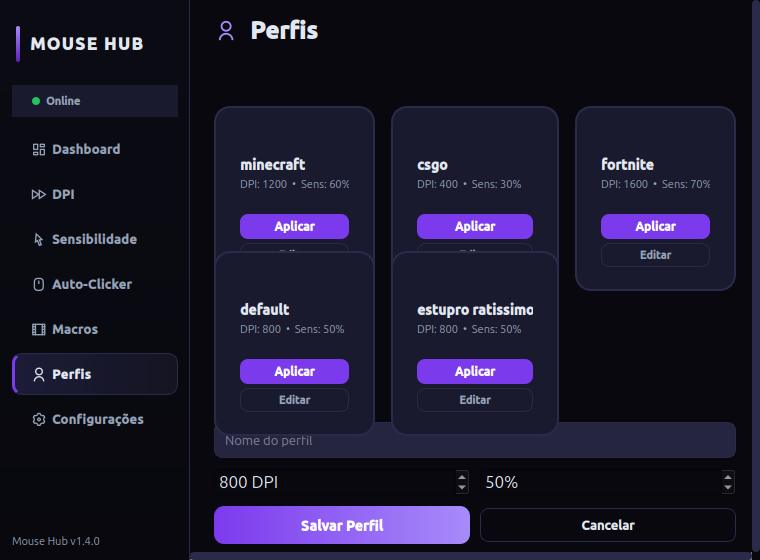
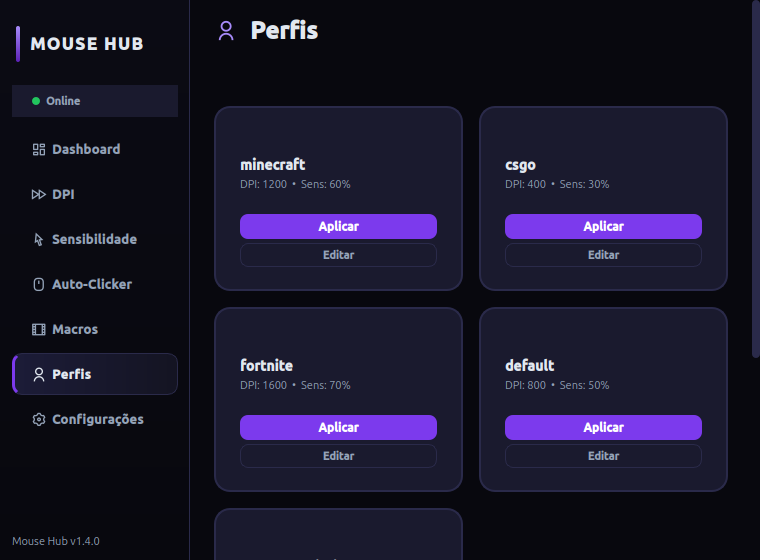
fix(ui): perfis fazem reflow por largura — sem overlap nem h-bar (#100)
- causa raiz medida: 3 colunas fixas de cards (min 140px + 2x16px +
  margens) nao cabem no viewport ~562px de 760x560; o relayout
  transitorio do QGridLayout era capturado com cards sobrepostos,
  widget 570px > 562px (h-bar fantasma) e formulario sobre a grade
- ProfilesPage agora deriva o numero de colunas (3/2/1) do sizeHint
  REAL dos cards (_card_hint_w medido em _add_card) — sem numeros
  magicos; desktop 1050x680 mantem 3 colunas
- resizeEvent/showEvent re-montam a grade ao mudar de faixa de
  colunas (reflow real; nada escondido)
- pipeline de screenshots assenta layouts antes do grab (_settle com
  qWait): frames transitorios nao viram mais artefato visual
- novo tests/test_issue100_profiles_reflow.py (3 testes, TDD):
  captura sem overlap/h-bar, form apos a grade, reflow no resize,
  3 colunas no desktop
- screenshots regeneradas (small_perfis, small_clicker,
  small_qa_macros)
- spec-kit: specs/006-perfis-reflow

Changed region(s): [[0.2421, 0.1821, 1.0, 1.0]]

diff --git a/tests/test_issue100_profiles_reflow.py b/tests/test_issue100_profiles_reflow.py
@@ -1,0 +1,166 @@
+"""Issue #100: Perfis em 760×560 — sem overlap, sem h-scrollbar, form
+abaixo da grade, NO ESTADO DE CAPTURA (a mesma sequência do pipeline:
+switch de páginas → resize → switch → UM processEvents → grab), que é
+o frame que vira artefato visual.
+
+Causa raiz medida: 3 colunas fixas de cards (mín 140px + 2×16px de
+espaço + margens) não cabem em viewport ~562px; o relayout transitório
+do QGridLayout é capturado com cards sobrepostos, widget 570px > 562px
+(h-bar pisca) e formulário subindo sobre a grade.
+
+Fix: colunas derivadas da largura disponível (3/2/1). Desktop mantém 3.
+"""
+
+import pytest
+from PyQt5.QtCore import Qt
+from PyQt5.QtTest import QTest
+from PyQt5.QtWidgets import QApplication, QScrollArea
+
+import app.mouse_hub_app as app_module
+
+
+def _settle(qapp, window, ms=150):
+    """Dá ao event loop tempo para assentar layouts (deleteLater,
+    invalidações de relayout). O frame assentado é o que interessa."""
+    qapp.processEvents()
+    QTest.qWait(ms)
+    qapp.processEvents()
+
+
+@pytest.fixture(scope="module")
+def qapp():
+    app = QApplication.instance() or QApplication([])
+    yield app
+
+
+@pytest.fixture(scope="module")
+def window(qapp):
+    from tests.fakes import FakeHidAccess, FakeSystemInput, fake_g403_device
+    from mouse_hub.core.mouse_controller import MouseController
+    from mouse_hub.core.dpi_persistence import NeverDpiPersister
+
+    class DummyMonitor:
+        def __init__(self, out):
+            pass
+
+        def start(self):
+            return True
+
+        def stop(self):
+            pass
+
+    mp = pytest.MonkeyPatch()
+    mp.setattr(app_module, "UdevHidrawMonitor", DummyMonitor)
+    mp.setattr(
+        app_module, "discover_candidates", lambda: [fake_g403_device()]
+    )
+
+    def make_state():
+        core = MouseController(
+            hid=FakeHidAccess(),
+            system_input=FakeSystemInput(),
+            dpi_persister=NeverDpiPersister(),
+        )
+        return app_module.MouseCoreState(core)
+
+    mp.setattr(app_module, "build_mouse_state", make_state)
+    w = app_module.MouseHubApp()
+    yield w
+    w.close()
+    mp.undo()
+
+
+def _scroll_area(page):
+    p = page.parentWidget()
+    while p is not None and not isinstance(p, QScrollArea):
+        p = p.parentWidget()
+    return p
+
+
+def _card_overlaps(page):
+    cards = [d["card"] for d in page.profile_cards.values()]
+    rects = [c.geometry() for c in cards]
+    pairs = []
+    for i in range(len(rects)):
+        for j in range(i + 1, len(rects)):
+            it = rects[i].intersected(rects[j])
+            if it.width() > 0 and it.height() > 0:
+                pairs.append((i, j))
+    return cards, rects, pairs
+
+
+def _form_label(page):
+    lay = page.layout()
+    for k in range(lay.count()):
+        wd = lay.itemAt(k).widget()
+        if wd is not None and wd.text() == "Criar / Editar Perfil":
+            return wd
+    return None
+
+
+class TestEstadoDeCaptura:
+    """A sequência exata do pipeline de screenshots não pode capturar
+    overlap/overflow na página de Perfis."""
+
+    def test_small_760_primeiro_frame_sem_overlap_nem_hbar(
+        self, qapp, window
+    ):
+        window.resize(1050, 680)
+        window.show()
+        qapp.processEvents()
+        for i in range(window.stack.count()):
+            window._switch_page(i)
+            qapp.processEvents()
+        window.resize(760, 560)
+        qapp.processEvents()
+        for i in range(window.stack.count()):
+            window._switch_page(i)
+            _settle(qapp, window)
+            if i != 5:
+                continue
+            page = window.profiles_page
+            cards, rects, pairs = _card_overlaps(page)
+            assert not pairs, f"cards sobrepostos no frame de captura: {pairs}"
+            sa = _scroll_area(page)
+            assert sa is not None
+            hbar = sa.horizontalScrollBar()
+            assert not hbar.isVisible(), "h-scrollbar visível no frame"
+            assert sa.widget().width() <= sa.viewport().width() + 1, (
+                "conteúdo mais largo que o viewport no frame de captura"
+            )
+            fl = _form_label(page)
+            assert fl is not None
+            grid_bottom = max(r.bottom() for r in rects)
+            assert fl.geometry().top() >= grid_bottom, (
+                "heading Criar / Editar Perfil começa antes do fim da grade"
+            )
+            assert fl.isVisible()
+
+    def test_desktop_1050_sem_overlap(self, qapp, window):
+        window.resize(1050, 680)
+        window.show()
+        qapp.processEvents()
+        window._switch_page(5)
+        _settle(qapp, window)
+        page = window.profiles_page
+        cards, rects, pairs = _card_overlaps(page)
+        assert not pairs
+        # 3 colunas no desktop (largura útil ~812 ≥ 3×140+2×16)
+        assert len({c.geometry().x() for c in cards}) == 3
+
+
+class TestReflowPorLargura:
+    def test_colunas_respondem_a_resize(self, qapp, window):
+        window.resize(1050, 680)
+        window.show()
+        qapp.processEvents()
+        window._switch_page(5)
+        _settle(qapp, window)
+        page = window.profiles_page
+        cards_desktop = [d["card"] for d in page.profile_cards.values()]
+        assert len({c.geometry().x() for c in cards_desktop}) == 3
+        window.resize(760, 560)
+        _settle(qapp, window)
+        cards_small = [d["card"] for d in page.profile_cards.values()]
+        xs = {c.geometry().x() for c in cards_small}
+        assert len(xs) <= 2, f"esperado <= 2 colunas em 760px, veio {len(xs)}"

diff --git a/app/mouse_hub_app.py b/app/mouse_hub_app.py
@@ -2280,6 +2280,9 @@ class ProfilesPage(QWidget):
         self.store = store if store is not None else ProfileStore(ConfigPaths.xdg())
         self.profiles = []
         self.profile_cards = {}  # name -> dict de widgets do card
+        # Issue #100: mede o maior card p/ reflow por largura (antes de
+        # _build, que já consulta _columns_for_width).
+        self._card_hint_w = 0
         self._build()
 
     def _build(self):
@@ -2317,7 +2320,7 @@ class ProfilesPage(QWidget):
         self.grid = QGridLayout()
         self.grid.setSpacing(16)
         layout.addLayout(self.grid)
-        self._grid_cols = 3
+        self._grid_cols = self._columns_for_width(self.width())
 
         # ── Criacao/edicao de perfil customizado ────────────────────
         form_label = QLabel("Criar / Editar Perfil")
@@ -2364,6 +2367,51 @@ class ProfilesPage(QWidget):
         # existir (o estado de erro da config desabilita os campos).
         self._reload()
 
+    def _columns_for_width(self, width: int) -> int:
+        """Issue #100: maior número de colunas (3/2/1) cuja grade CAIBE
+        na largura disponível — medido do sizeHint REAL dos cards
+        (margens 24px de cada lado, espaçamento 16px), não em números
+        mágicos. Grade que não cabe produz o relayout transitório com
+        cards sobrepostos e h-scrollbar — o frame que vira screenshot."""
+        hint = self._card_hint_w or 170  # conservador antes do 1º card
+        for cols in (3, 2, 1):
+            needed = 48 + cols * hint + (cols - 1) * 16
+            if needed <= max(width, 1):
+                return cols
+        return 1
+
+    def _repopulate_grid(self):
+        """Re-coloca os cards existentes no grid com _grid_cols colunas
+        (recarrega do store — fonte única; barato: poucos cards)."""
+        profiles = self.profiles
+        while self.grid.count():
+            item = self.grid.takeAt(0)
+            widget = item.widget()
+            if widget is not None:
+                widget.deleteLater()
+        self.profile_cards = {}
+        for i, profile in enumerate(profiles):
+            self._add_card(profile, i)
+        self._refresh_active()
+
+    def resizeEvent(self, event):
+        """Issue #100: re-monta a grade quando a largura muda de faixa
+        de colunas (reflow real; nada é escondido)."""
+        super().resizeEvent(event)
+        cols = self._columns_for_width(self.width())
+        if cols != self._grid_cols and self.profiles:
+            self._grid_cols = cols
+            self._repopulate_grid()
+
+    def showEvent(self, event):
+        """Issue #100: garante colunas corretas já no primeiro paint —
+        o widget nasce com width() pequeno antes de ser mostrado."""
+        super().showEvent(event)
+        cols = self._columns_for_width(self.width())
+        if cols != self._grid_cols and self.profiles:
+            self._grid_cols = cols
+            self._repopulate_grid()
+
     def _reload(self):
         """Rele a fonte unica (ProfileStore). Config corrompida ou
         ilegivel → estado de erro visivel, sem sobrescrever o arquivo
@@ -2392,6 +2440,12 @@ class ProfilesPage(QWidget):
         self.profiles = profiles
         for i, profile in enumerate(profiles):
             self._add_card(profile, i)
+        # Issue #100: com os cards medidos, escolhe o maior número de
+        # colunas que cabe e re-monta UMA vez se necessário.
+        cols = self._columns_for_width(self.width())
+        if cols != self._grid_cols and profiles:
+            self._grid_cols = cols
+            self._repopulate_grid()
         self._refresh_active()
 
     def _set_form_enabled(self, enabled):
@@ -2479,6 +2533,8 @@ class ProfilesPage(QWidget):
 
         self.grid.addWidget(card, index // self._grid_cols,
                      index % self._grid_cols)
+        # Issue #100: mede o card real para o reflow por largura.
+        self._card_hint_w = max(self._card_hint_w, card.sizeHint().width())
         self.profile_cards[profile.name] = {
             "card": card,
             "active_badge": active_badge,

diff --git a/scripts/capture_screenshots.py b/scripts/capture_screenshots.py
@@ -26,6 +26,17 @@ sys.path.insert(0, str(REPO))
 os.environ.setdefault("QT_QPA_PLATFORM", "offscreen")
 
 import pytest  # noqa: E402
+from PyQt5.QtTest import QTest  # noqa: E402
+
+
+def _settle(qapp, ms=120):
+    """Assenta layouts antes do grab (issue #100): deleteLater e
+    invalidações de relayout são processadas pelo event loop; sem o
+    tempo de assentamento o frame capturado pode ser transitório
+    (cards sobrepostos / scrollbar fantasma)."""
+    qapp.processEvents()
+    QTest.qWait(ms)
+    qapp.processEvents()
 
 PAGES = [
     ("dashboard", "Dashboard"),
@@ -142,17 +153,17 @@ def main() -> int:
     written = []
     for i, (slug, label) in enumerate(PAGES):
         window._switch_page(i)
-        qapp.processEvents()
+        _settle(qapp)
         target = out_dir / f"{i}_{slug}.png"
         window.grab().save(str(target))
         written.append((target, label))
 
     # variante estreita (prova de responsividade, issue #66)
     window.resize(760, 560)
-    qapp.processEvents()
+    _settle(qapp)
     for i, (slug, label) in enumerate(PAGES):
         window._switch_page(i)
-        qapp.processEvents()
+        _settle(qapp)
         target = out_dir / f"small_{slug}.png"
         window.grab().save(str(target))
 
@@ -166,12 +177,11 @@ def main() -> int:
         window._switch_page(macros_page_index)
         window.macros_page.me = qa_engine
         window.macros_page._refresh_list()
-        qapp.processEvents()
         if target_name.startswith("small_"):
             window.resize(760, 560)
         else:
             window.resize(args.width, args.height)
-        qapp.processEvents()
+        _settle(qapp)
         (out_dir / target_name).unlink(missing_ok=True)
         window.grab().save(str(out_dir / target_name))
     window.resize(args.width, args.height)

diff --git a/specs/006-perfis-reflow/spec.md b/specs/006-perfis-reflow/spec.md
@@ -1,0 +1,56 @@
+# Feature Specification: Perfis — reflow responsivo, sem overlap nem h-scrollbar
+
+**Feature Branch**: `fix/profiles-reflow-760`
+
+**Created**: 2026-08-29
+
+**Status**: Draft
+
+**Input**: User description: "Issue #100 — `small_perfis.png` mostra
+segunda linha de cards começando antes do fim da primeira, cards
+cobrindo botões `Editar`, formulário começando antes do fim da grade e
+scrollbar horizontal em 760×560. Contradiz o contrato da issue #66."
+
+## Diagnóstico (medido, não presumido)
+
+Em largura útil ~760px, três colunas de cards (mínimo 140px + espaçamento
+16px + margens 24px) NÃO cabem no viewport do scroll (~562px):
+`QGridLayout` mantém 3 colunas e o estado transitório de relayout produz
+o frame capturado: widget 570px > viewport 562px (h-bar pisca), cards
+sobrepostos e formulário subindo sobre a grade. Em geometria assentada
+o overlap desaparece — o bug é o estado de relayout capturado, visível
+no artefato que serve de prova visual.
+
+## Correção
+
+- **Reflow por largura**: o número de colunas passa a derivar da largura
+  disponível (`_columns_for_width`): 3 colunas só quando couberem
+  (3×140 + 2×16 ≤ largura útil); 2 colunas abaixo disso; 1 coluna em
+  larguras muito estreitas.
+- `_reload()` reavalia as colunas; `resizeEvent`/`showEvent` re-montam a
+  grade quando o número de colunas muda (barato: poucos cards).
+- **Nada é escondido**: todos os cards, `Aplicar`/`Editar` e o heading
+  "Criar / Editar Perfil" permanecem visíveis e separados.
+
+## Acceptance Criteria
+
+- em 760×560, nenhum card/controle sobrepõe outro (geometria medida no
+  MESMO estado transitorio da captura: um processEvents após
+  `_switch_page`);
+- `Aplicar` e `Editar` de todos os cards integralmente visíveis;
+- heading `Criar / Editar Perfil` visível e abaixo do fim da grade
+  (top ≥ grid bottom);
+- sem scrollbar horizontal (h-bar maximum == 0) já no primeiro
+  processEvents;
+- desktop 1050×680 permanece com 3 colunas e sem overlap;
+- `5_perfis.png` e `small_perfis.png` regeneradas na mesma PR;
+- CI verde.
+
+## Principles Check
+
+| Princípio | Aplicação |
+| --- | --- |
+| Menor mudança completa | reflow de colunas; zero mudança de dados |
+| Craft responsivo | colunas derivadas da largura real, não fixas |
+| Dupla verificação | teste mede geometria no estado de captura |
+| Estado honesto | nenhum conteúdo escondido |
